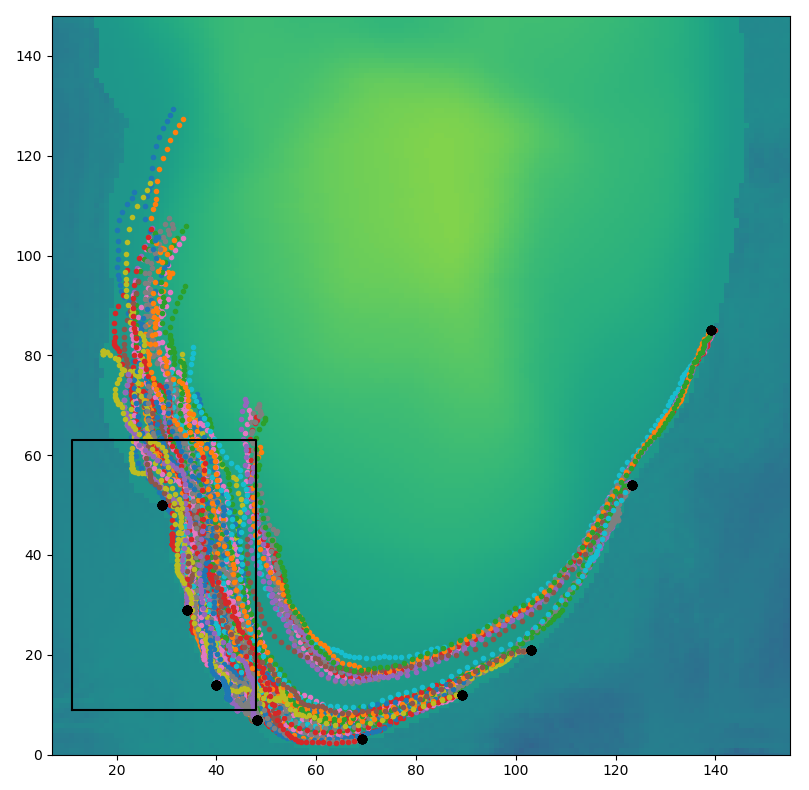
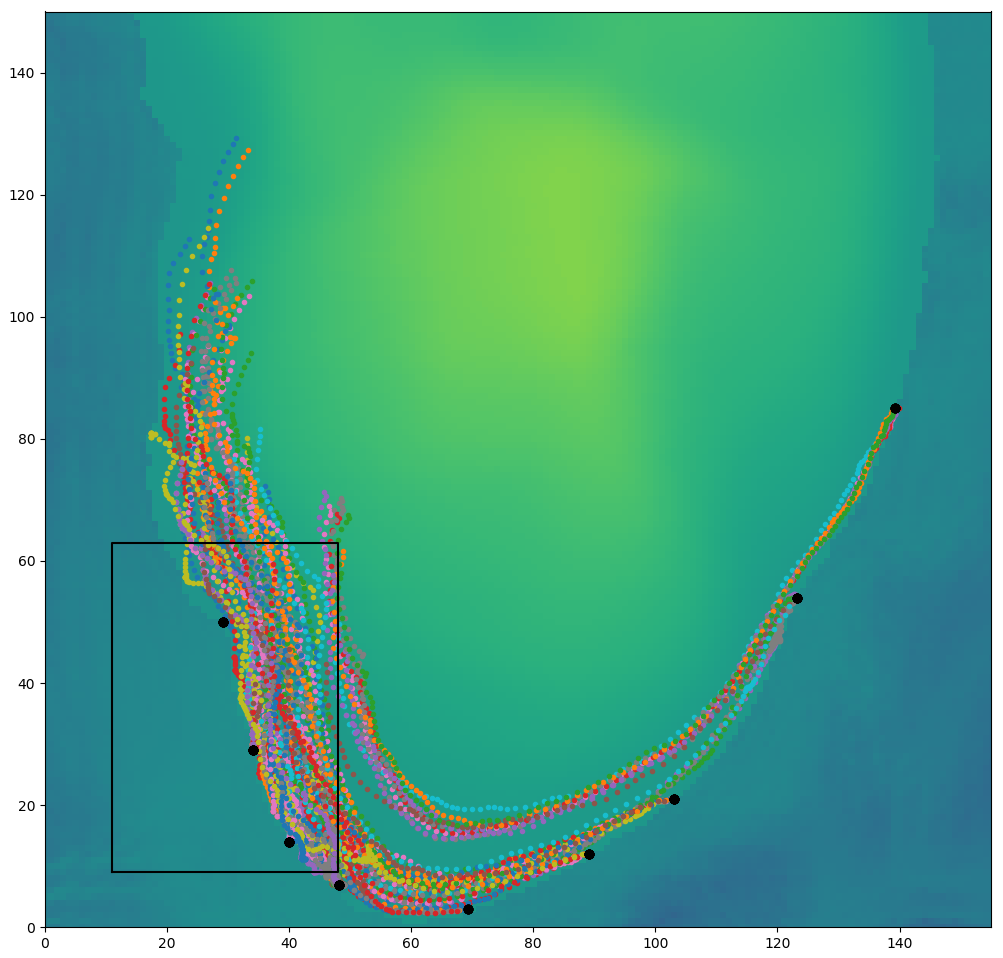
clean up Chicago example

Changed region(s): [[0.0, 0.0, 1.0, 1.0]]

diff --git a/iaglr2018.md b/iaglr2018.md
@@ -120,39 +120,37 @@ http://tbnorth.github.io/iaglr2018 -->
 
 ```
 python nsagent_contrib.py --start 20150901 --end 20150907 \
-  testconf.json /d/large/nsagents/lastrun_0601.nc \
-  --max-age 56 --SWNE 41.6959 -87.9012 42.1807 -87.4333
-
-Reporting iterations 1944-1992
-Reporting from row,col 9,11
-Reporting to row,col 63,48
-425952 records in interval
-Selected 5994 records by bounds
-Selected 3696 records by age
-Selected 163 agents
-```
-
-.
-
-
-# Chicago <!-- .slide: data-state="hide-head" -->
-<!-- .slide: data-background="img/chicago56.png" data-background-size="contain" -->
-
-
-
-# Chicago <!-- .slide: data-state="hide-head" -->
-<!-- .slide: data-background="img/chicago14.png" data-background-size="contain" -->
-
-<!--
-python nsagent_contrib.py --start 20150901 --end 20150907 testconf.json /d/large/nsagents/lastrun_0601.nc --max-age 14 --SWNE 41.6959 -87.9012 42.1807 -87.4333
+  testconf.json /mnt/edata/edata/large/nsagents/lastrun.nc \
+  --max-age 56 --WSEN -87.9012 41.6959 -87.4333 42.1807 \
+  --lbrt 0 0 155 150
 Reporting iterations 1944-1992
 Reporting from 9,11
 Reporting to 63,48
 425952 records in interval
 Selected 5994 records by bounds
-Selected 2945 records by age
-Selected 106 agents
+Selected 3696 records by age
+Selected 163 agents
+```
+.
+
+
+## Chicago <!-- .slide: data-state="hide-head" -->
+<!-- .slide: data-background="img/chicago56.png" data-background-size="contain" -->
+
+
+## Chicago <!-- .slide: data-state="hide-head" -->
+<!-- .slide: data-background="img/chicago14.png" data-background-size="contain" -->
+
+<!--
+
+save from plt.show() after tight layout
+
+mogrify -trim -border 10x10 -bordercolor white Figure_1* 
+
 -->
+
+
+
 # Depth
 
 
@@ -186,5 +184,4 @@ Selected 106 agents
  -  Tow data
 
 Brown.TerryN@epa.gov
-
 
